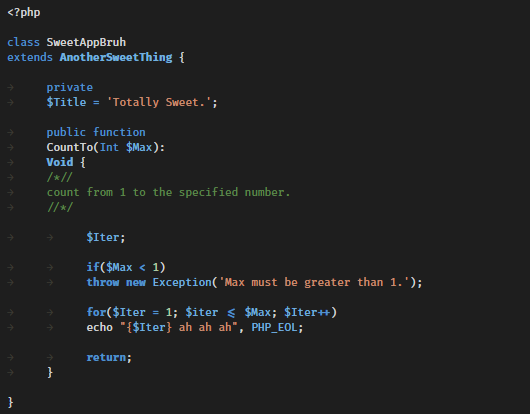
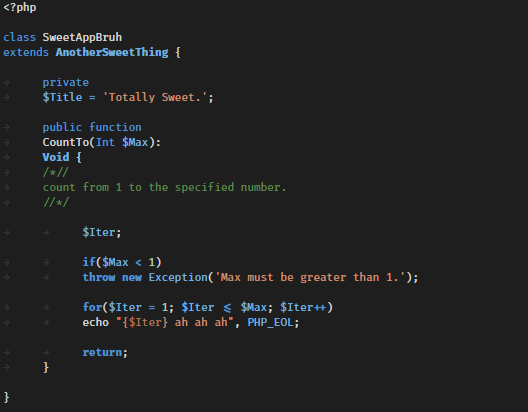
adds string eval var colour

diff --git a/example.php b/example.php
@@ -18,10 +18,11 @@ extends AnotherSweetThing {
 		if($Max < 1)
 		throw new Exception('Max must be greater than 1.');
 
-		for($Iter = 1; $iter <= $Max; $Iter++)
+		for($Iter = 1; $Iter <= $Max; $Iter++)
 		echo "{$Iter} ah ah ah", PHP_EOL;
 
 		return;
 	}
 
 }
+
